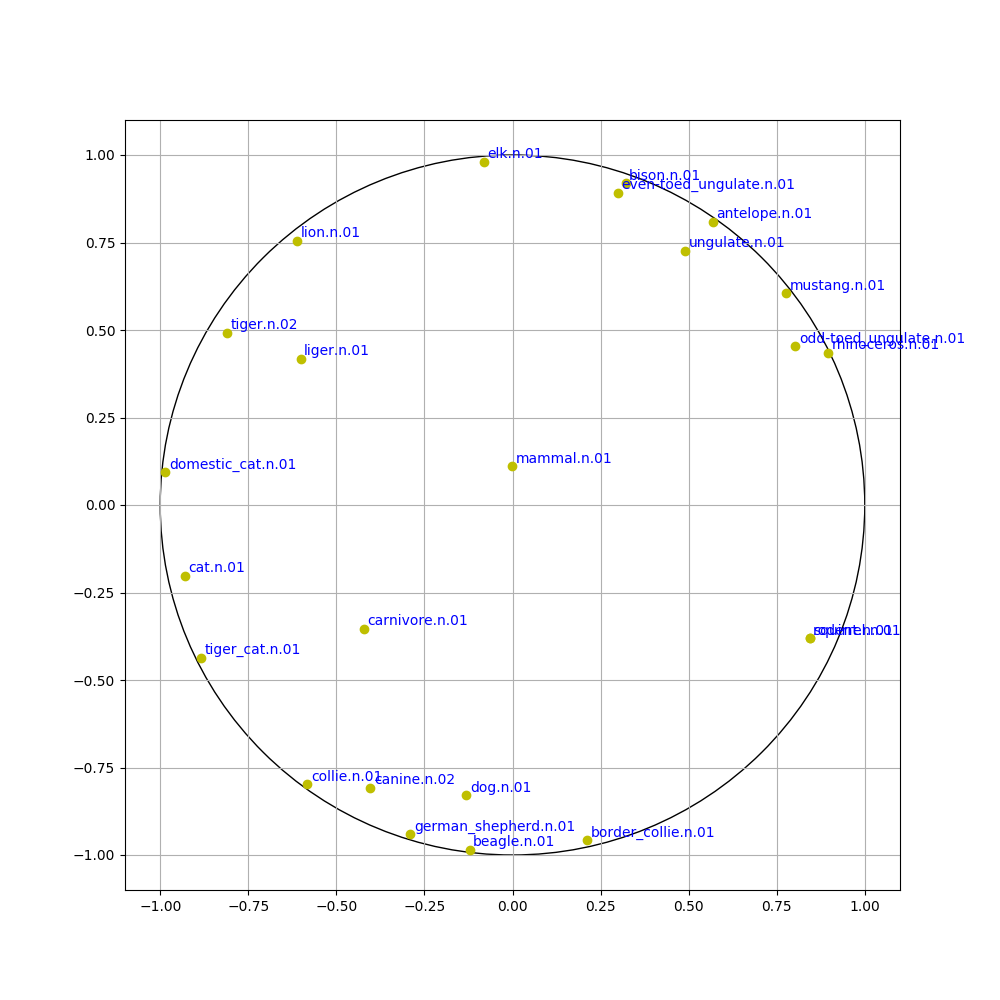
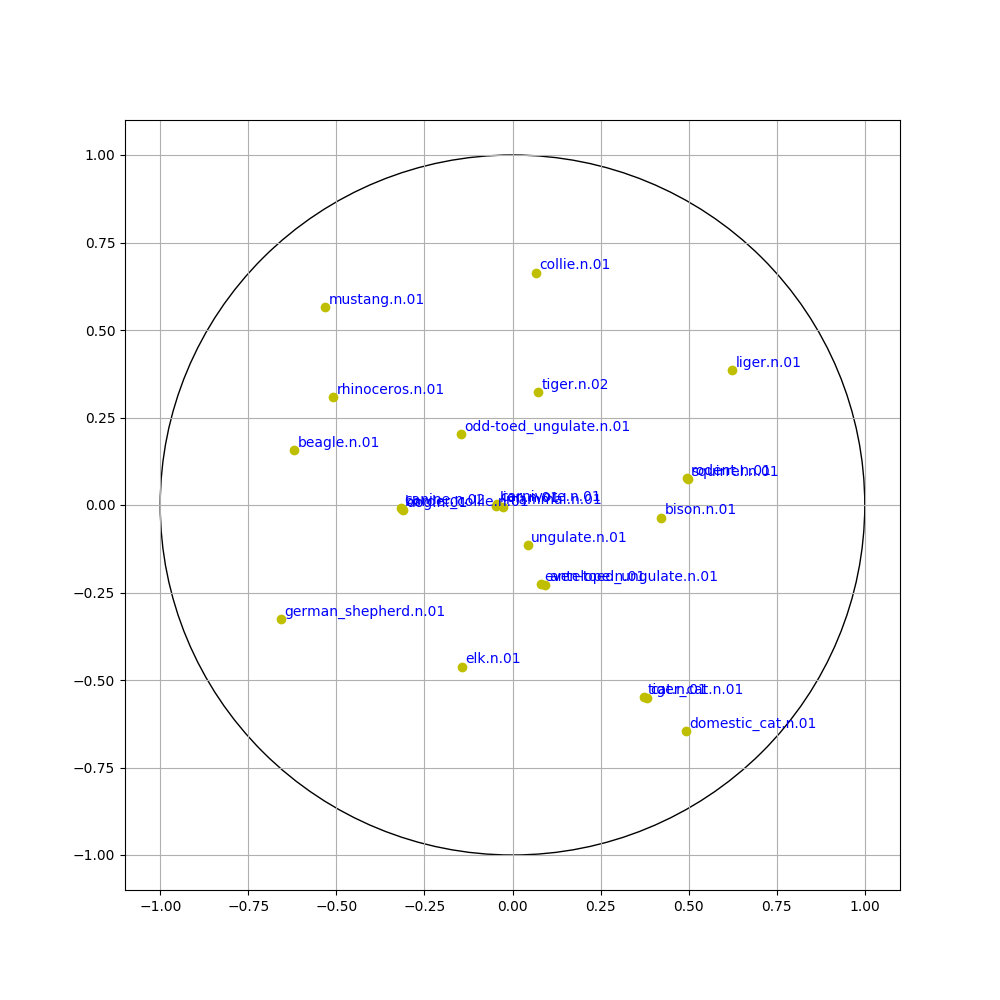
fix bug

diff --git a/word-embeddings/poincare-embeddings/train.py b/word-embeddings/poincare-embeddings/train.py
@@ -125,8 +125,11 @@ class RiemannianSgd(S.Solver):
     def update(self):
         for key in self.params:
             rescaled_gradient: nn.NdArray = self.params[key].grad * (1. - F.sum(self.params[key].data**2, axis=1, keepdims=True))**2 / 4.
-            print(self.params[key].grad.data)
-            print(rescaled_gradient.data)
+            # print(self.params[key].grad.data)
+            # print(rescaled_gradient.data)
+            if np.inf in self.params[key].grad.data:
+                print(self.params[key].grad.data)
+                exit()
             self.params[key].data -= self.lr * rescaled_gradient
             self.params[key].data = projection(self.params[key].data, eps=self.eps)
 
@@ -148,7 +151,7 @@ _neg = F.transpose(_neg, axes=(0, 2, 1))
 
 loss = loss_function(_u, _v, _neg)
 
-nn.get_parameters()["embed/W"].d = I.UniformInitializer([-0.001, 0.001])(shape=(vocab_size, embedding_size))
+nn.get_parameters()["embed/W"].d = I.UniformInitializer([-0.1, 0.1])(shape=(vocab_size, embedding_size))
 
 solver = RiemannianSgd(lr=0.01)
 solver.set_parameters(nn.get_parameters())
@@ -168,3 +171,12 @@ for w,i in pdict.items():
     ax.plot(c0,c1,'o',color='y')
     ax.text(c0+.01,c1+.01,w,color='b')
 fig.savefig('./output.png',dpi=fig.dpi)
+
+# In [2]: u.d
+# Out[2]: array([14.], dtype=float32)
+
+# In [3]: v.d
+# Out[3]: array([20.], dtype=float32)
+
+# In [4]: negative_samples.d
+# Out[4]: array([[17.,  7., 23.,  3., 15.,  9., 12.,  5.,  1.,  6.]], dtype=float32)
